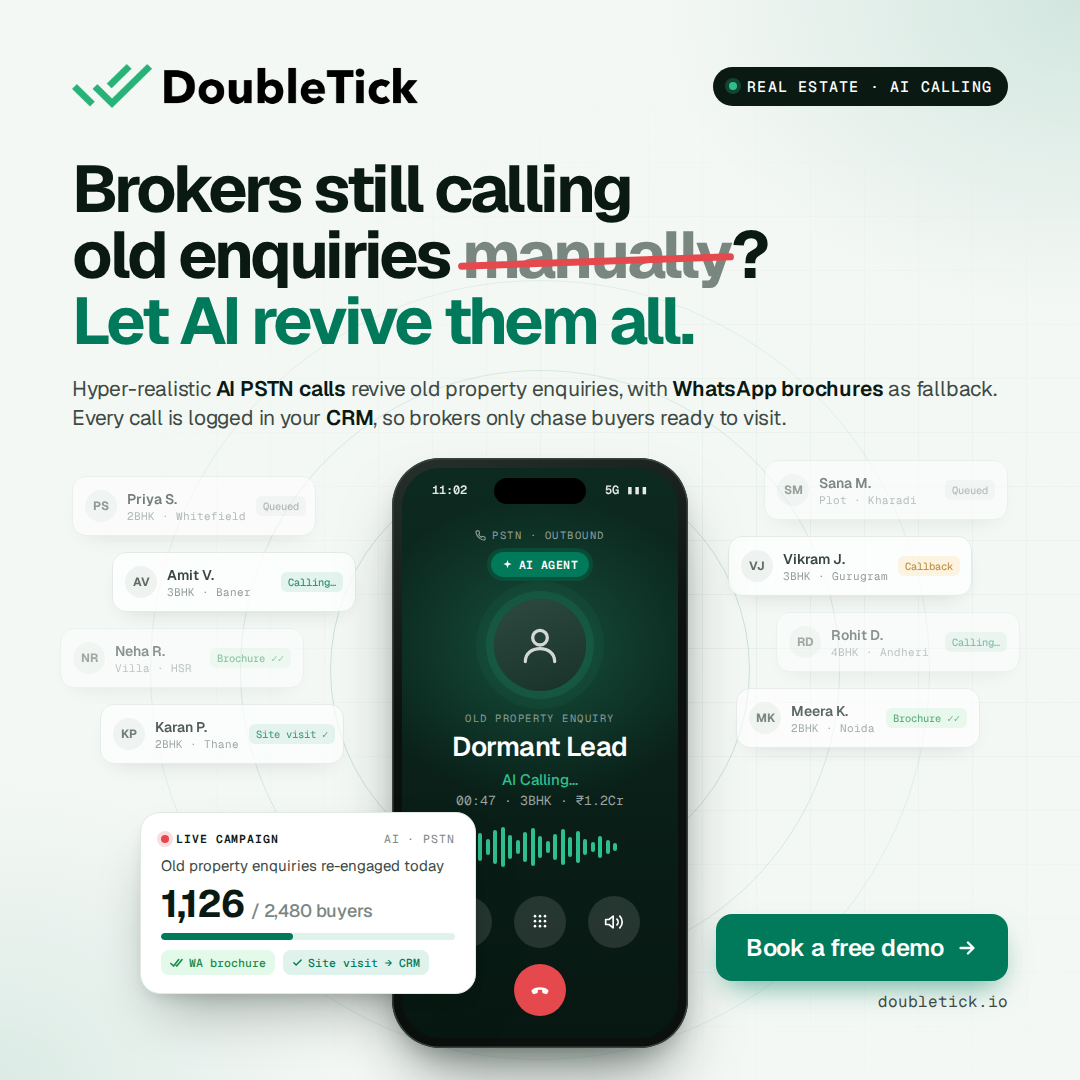
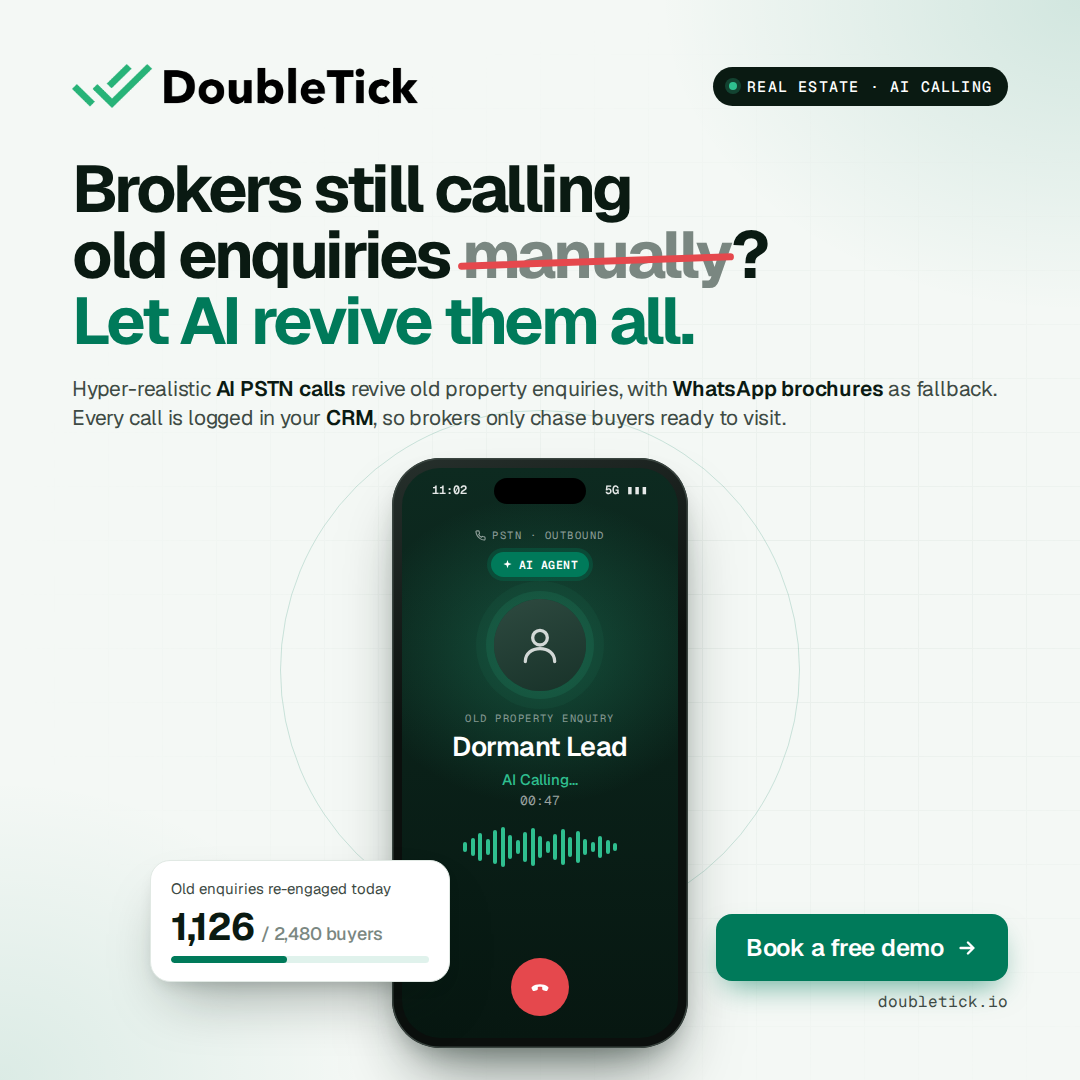
feat: simplify real estate AI calling ad visual
Claude-Session: https://claude.ai/code/session_013Hi5o4KgvuLbKTeGkStAKX

diff --git a/ads/doubletick-ai-calling-real-estate/index.html b/ads/doubletick-ai-calling-real-estate/index.html
@@ -120,11 +120,11 @@
   .pwave b { width: 4px; border-radius: 2px; background: var(--green-2); display: block; }
   .ctrls { margin-top: auto; display: grid; grid-template-columns: repeat(3, 52px); gap: 16px 22px; justify-items: center; }
   .cb { width: 52px; height: 52px; border-radius: 50%; background: rgba(255,255,255,.12); display: grid; place-items: center; }
-  .cb.end { background: #E5484D; grid-column: 2; }
+  .cb.end { background: #E5484D; grid-column: 2; width: 58px; height: 58px; }
 
   /* front active campaign card */
   .front {
-    left: 140px; top: 372px; width: 336px; padding: 18px 20px; border-radius: 20px; background: #fff; border: 1px solid var(--line);
+    left: 150px; top: 420px; width: 300px; padding: 18px 20px; border-radius: 20px; background: #fff; border: 1px solid var(--line);
     box-shadow: 0 30px 60px -22px rgba(10,26,18,.4), 0 8px 18px -8px rgba(10,26,18,.18);
     display: flex; flex-direction: column; gap: 10px;
   }
@@ -162,15 +162,7 @@
   <p class="sub">Hyper-realistic <b>AI PSTN calls</b> revive old property enquiries, with <b>WhatsApp brochures</b> as fallback.<br/>Every call is logged in your <b>CRM</b>, so brokers only chase buyers ready to visit.</p>
 
   <div class="hero">
-    <div class="rings"><i style="width:420px;height:420px;opacity:1"></i><i style="width:600px;height:600px;opacity:0.7"></i><i style="width:780px;height:780px;opacity:0.45"></i></div>
-    <div class="lead" style="left:72px;top:36px;opacity:0.55"><div class="av">PS</div><div><div class="nm">Priya S.</div><div class="dd mono">2BHK · Whitefield</div></div><span class="st q mono">Queued</span></div>
-    <div class="lead" style="left:112px;top:112px;opacity:0.8"><div class="av">AV</div><div><div class="nm">Amit V.</div><div class="dd mono">3BHK · Baner</div></div><span class="st c mono">Calling…</span></div>
-    <div class="lead" style="left:60px;top:188px;opacity:0.45"><div class="av">NR</div><div><div class="nm">Neha R.</div><div class="dd mono">Villa · HSR</div></div><span class="st w mono">Brochure ✓✓</span></div>
-    <div class="lead" style="left:100px;top:264px;opacity:0.7"><div class="av">KP</div><div><div class="nm">Karan P.</div><div class="dd mono">2BHK · Thane</div></div><span class="st c mono">Site visit ✓</span></div>
-    <div class="lead" style="left:764px;top:20px;opacity:0.5"><div class="av">SM</div><div><div class="nm">Sana M.</div><div class="dd mono">Plot · Kharadi</div></div><span class="st q mono">Queued</span></div>
-    <div class="lead" style="left:728px;top:96px;opacity:0.8"><div class="av">VJ</div><div><div class="nm">Vikram J.</div><div class="dd mono">3BHK · Gurugram</div></div><span class="st y mono">Callback</span></div>
-    <div class="lead" style="left:776px;top:172px;opacity:0.45"><div class="av">RD</div><div><div class="nm">Rohit D.</div><div class="dd mono">4BHK · Andheri</div></div><span class="st c mono">Calling…</span></div>
-    <div class="lead" style="left:736px;top:248px;opacity:0.65"><div class="av">MK</div><div><div class="nm">Meera K.</div><div class="dd mono">2BHK · Noida</div></div><span class="st w mono">Brochure ✓✓</span></div>
+    <div class="rings"><i style="width:520px;height:520px"></i></div>
 
     <div class="phone">
       <div class="screen">
@@ -190,26 +182,18 @@
         <div class="olabel mono">OLD PROPERTY ENQUIRY</div>
         <div class="pname">Dormant Lead</div>
         <div class="pstat">AI Calling…</div>
-        <div class="timer mono">00:47 · 3BHK · ₹1.2Cr</div>
+        <div class="timer mono">00:47</div>
         <div class="pwave"><b style="height:10px"></b><b style="height:18px"></b><b style="height:28px"></b><b style="height:16px"></b><b style="height:34px"></b><b style="height:40px"></b><b style="height:24px"></b><b style="height:14px"></b><b style="height:30px"></b><b style="height:38px"></b><b style="height:22px"></b><b style="height:12px"></b><b style="height:26px"></b><b style="height:36px"></b><b style="height:20px"></b><b style="height:32px"></b><b style="height:16px"></b><b style="height:10px"></b><b style="height:22px"></b><b style="height:14px"></b><b style="height:8px"></b></div>
         <div class="ctrls">
-          <div class="cb"><svg width="20" height="20" viewBox="0 0 24 24" fill="none" stroke="#fff" stroke-width="2" stroke-linecap="round" stroke-linejoin="round"><rect x="9" y="2" width="6" height="12" rx="3"/><path d="M5 10v1a7 7 0 0 0 14 0v-1M12 18v4"/></svg></div>
-          <div class="cb"><svg width="20" height="20" viewBox="0 0 24 24" fill="#fff"><circle cx="6" cy="5" r="1.6"/><circle cx="12" cy="5" r="1.6"/><circle cx="18" cy="5" r="1.6"/><circle cx="6" cy="11" r="1.6"/><circle cx="12" cy="11" r="1.6"/><circle cx="18" cy="11" r="1.6"/><circle cx="6" cy="17" r="1.6"/><circle cx="12" cy="17" r="1.6"/><circle cx="18" cy="17" r="1.6"/></svg></div>
-          <div class="cb"><svg width="20" height="20" viewBox="0 0 24 24" fill="none" stroke="#fff" stroke-width="2" stroke-linecap="round" stroke-linejoin="round"><path d="M11 5L6 9H2v6h4l5 4z"/><path d="M15.5 8.5a5 5 0 0 1 0 7M19 5a10 10 0 0 1 0 14"/></svg></div>
           <div class="cb end"><svg width="22" height="22" viewBox="0 0 24 24" fill="#fff"><path d="M12 9c-3.2 0-6.2.9-8.6 2.6-.6.4-.8 1.2-.5 1.9l1.1 2.2c.3.6 1 .9 1.7.7l2.9-.9c.6-.2 1-.7 1-1.3V12c1.6-.4 3.2-.4 4.8 0v2.2c0 .6.4 1.1 1 1.3l2.9.9c.7.2 1.4-.1 1.7-.7l1.1-2.2c.3-.7.1-1.5-.5-1.9C18.2 9.9 15.2 9 12 9z"/></svg></div>
         </div>
       </div>
     </div>
 
     <div class="front">
-      <div class="r mono"><span class="live"><i></i>Live campaign</span><span style="color:var(--muted)">AI · PSTN</span></div>
-      <div class="t">Old property enquiries re-engaged today</div>
+      <div class="t">Old enquiries re-engaged today</div>
       <div class="big">1,126 <span>/ 2,480 buyers</span></div>
       <div class="bar"><span></span></div>
-      <div class="chips">
-        <span class="chip wa mono"><svg width="14" height="10" viewBox="0 0 16 11" fill="none" stroke="#1A8A47" stroke-width="1.8" stroke-linecap="round" stroke-linejoin="round"><path d="M1 6l3 3 6-7.5"/><path d="M7 8.2l.8.8 6-7.5"/></svg>WA brochure</span>
-        <span class="chip crm mono"><svg width="11" height="11" viewBox="0 0 24 24" fill="none" stroke="#007A5A" stroke-width="3" stroke-linecap="round" stroke-linejoin="round"><path d="M4 12.5l5 5L20 6.5"/></svg>Site visit → CRM</span>
-      </div>
     </div>
 
     <div class="cta">
